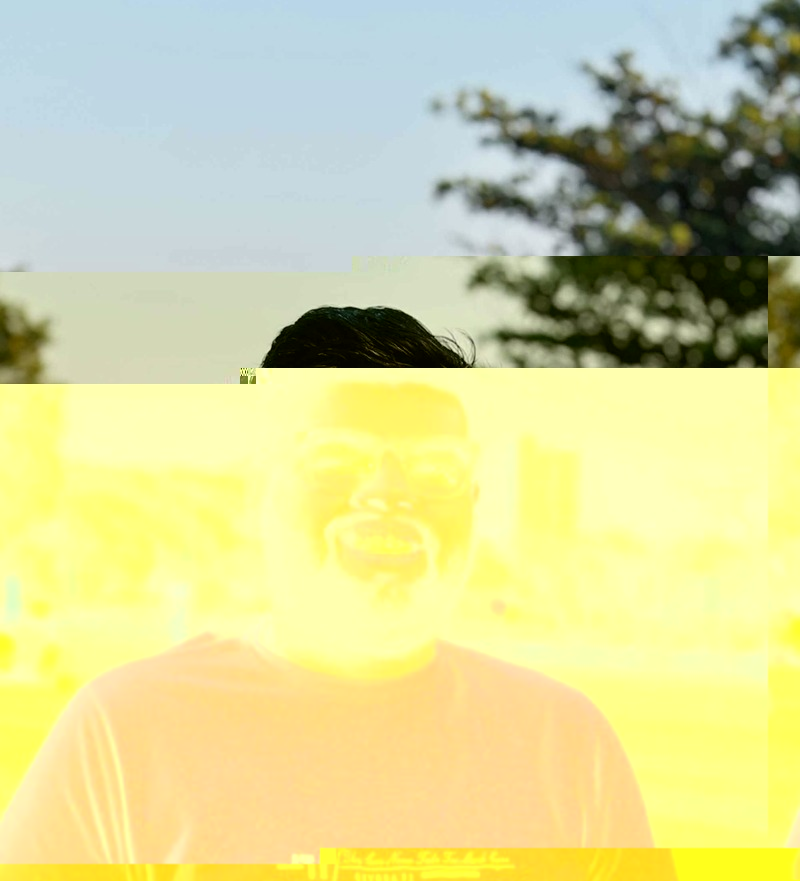
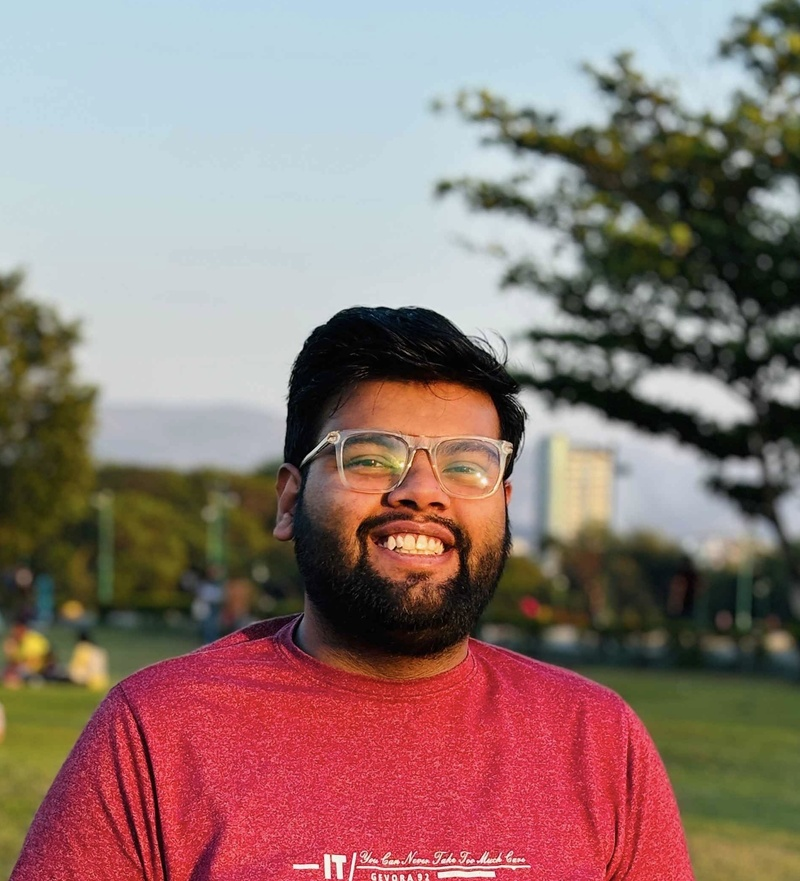
fix(assets): replace corrupted photo with pristine uncorrupted original IMG_2602 asset

diff --git a/logs/usage_telemetry.md b/logs/usage_telemetry.md
@@ -4,3 +4,5 @@
 |---|---|---|---|---|---|---|---|
 | 2026-08-16 18:22:02 | Fetch Profile & Blogs | SUCCESS | tiwari17aditya | N/A | 0 | 0 | 26 |
 | 2026-08-16 18:28:44 | Fetch Profile & Blogs | SUCCESS | tiwari17aditya | N/A | 0 | 0 | 23 |
+| 2026-08-16 18:29:27 | Fetch Profile & Blogs | SUCCESS | tiwari17aditya | N/A | 0 | 0 | 22 |
+| 2026-08-16 18:34:14 | Fetch Profile & Blogs | SUCCESS | tiwari17aditya | N/A | 0 | 0 | 21 |
